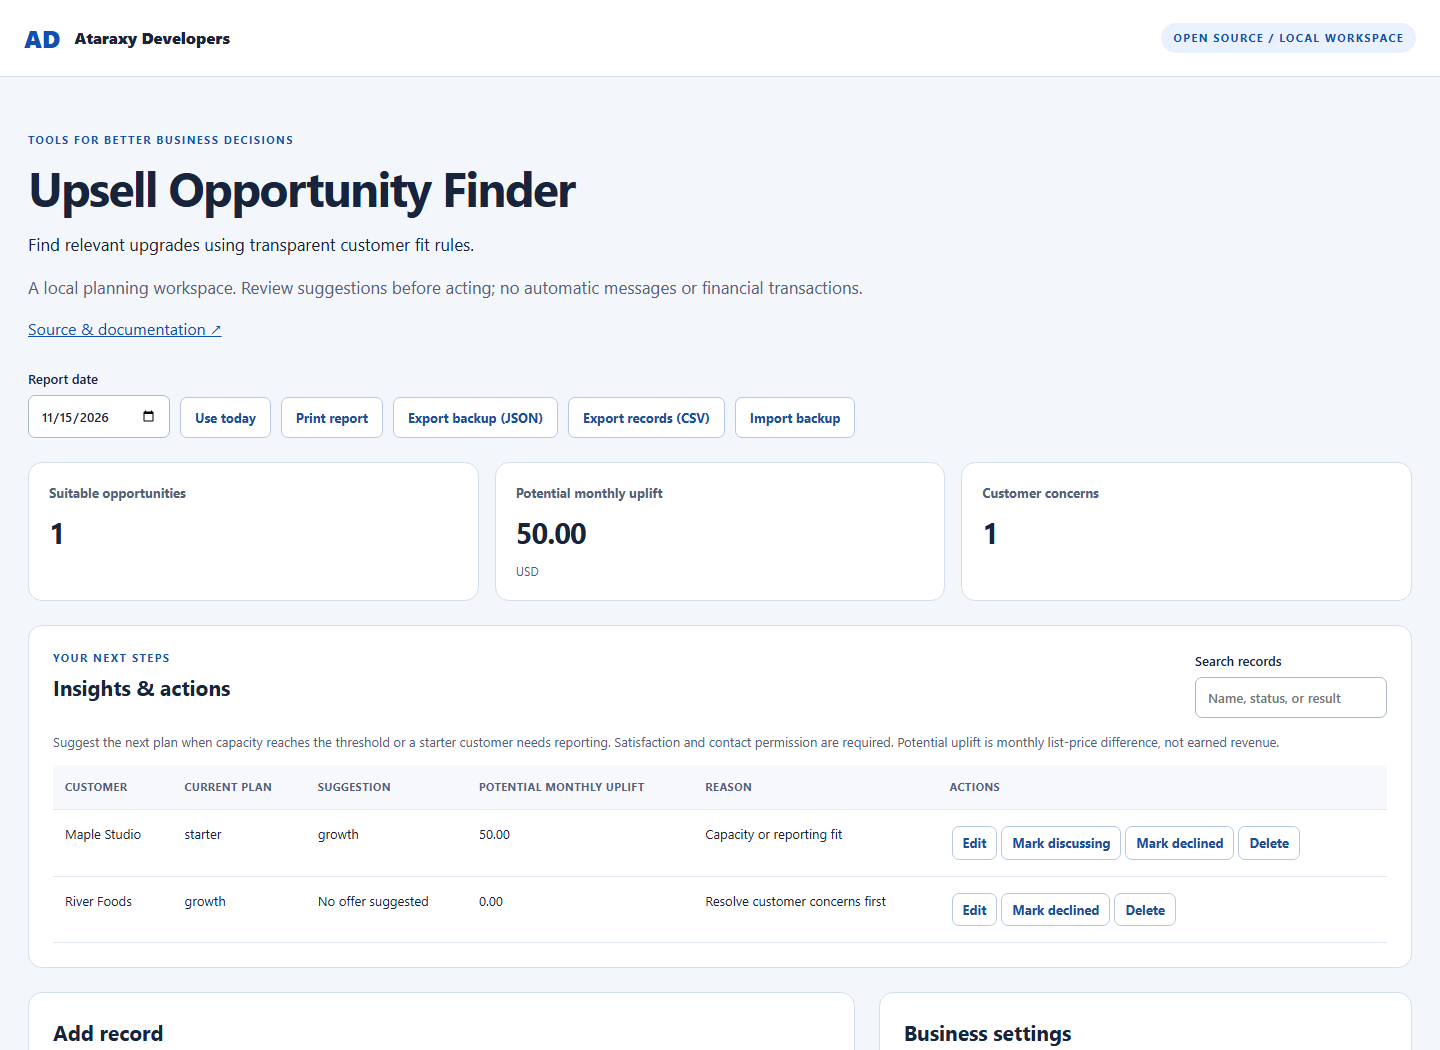
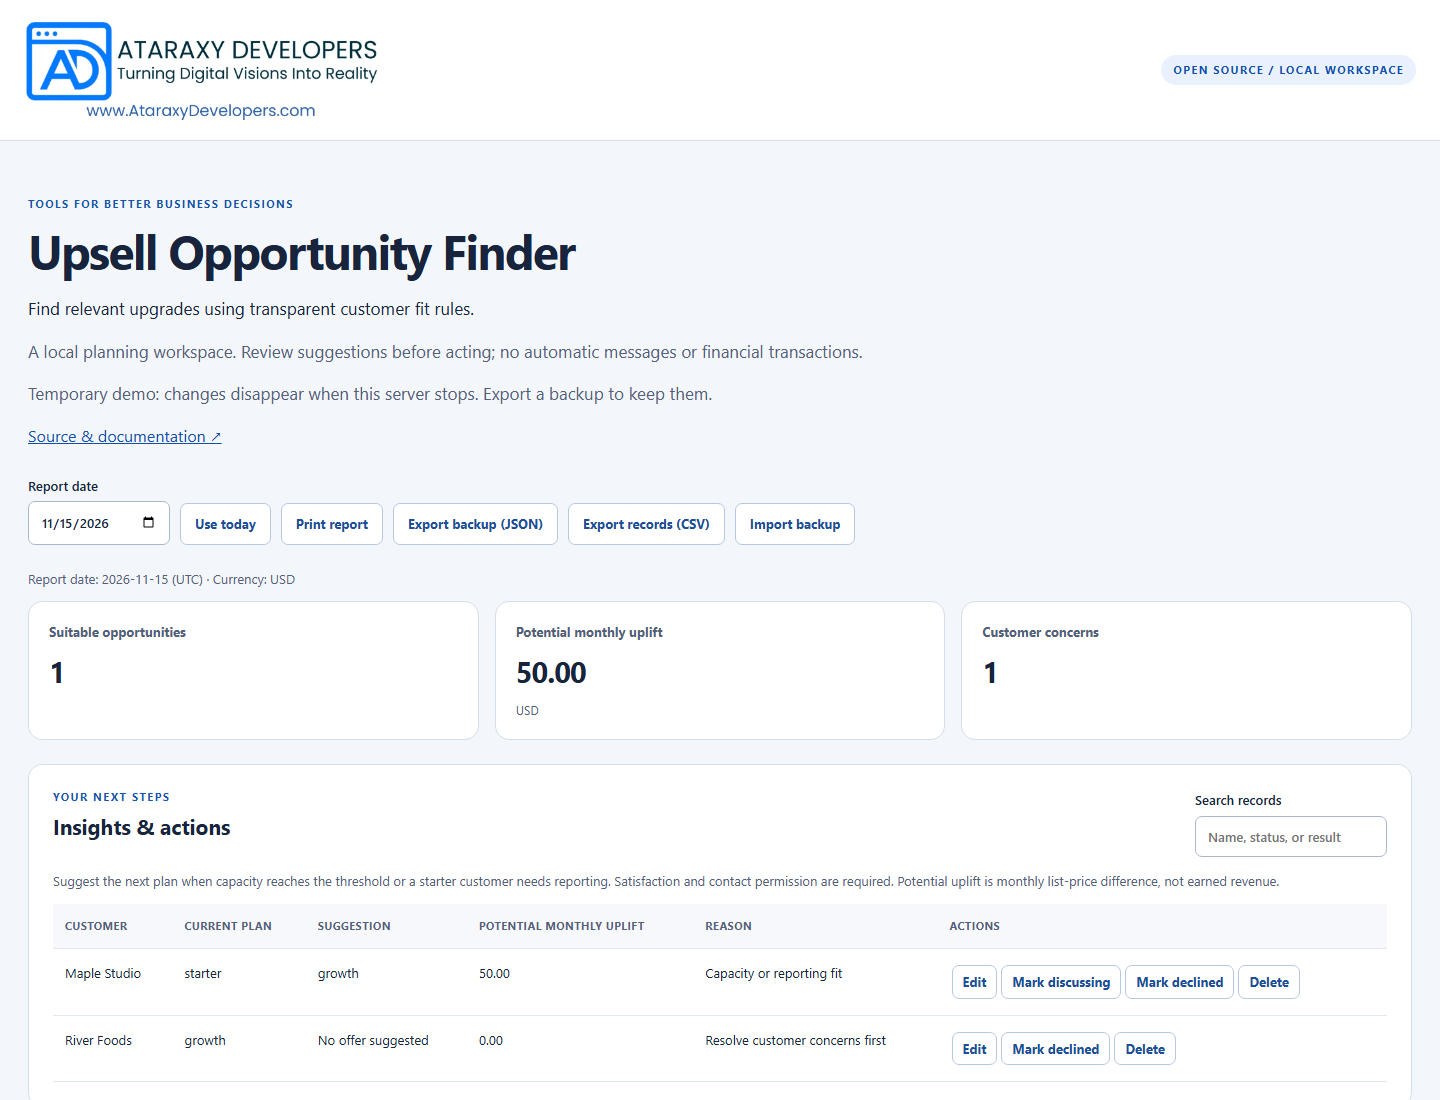
Use approved Ataraxy Developers branding

diff --git a/public/index.html b/public/index.html
@@ -4,16 +4,14 @@
     <meta charset="utf-8" />
     <meta name="viewport" content="width=device-width,initial-scale=1" />
     <title>Business workspace · Ataraxy Developers</title>
-    <link rel="icon" href="/favicon.svg" />
+    <link rel="icon" href="/ataraxy-developers-logo.png" type="image/png" />
     <link rel="stylesheet" href="/style.css" />
     <script type="module" src="/app.js"></script>
   </head>
   <body>
     <a class="skip" href="#main">Skip to workspace</a>
     <header>
-      <a class="brand" href="https://ataraxydevelopers.com"
-        >AD <span>Ataraxy Developers</span></a
-      ><span class="badge">OPEN SOURCE / LOCAL WORKSPACE</span>
+      <a class="brand" href="https://ataraxydevelopers.com"><img src="/ataraxy-developers-logo.png" alt="Ataraxy Developers — Turning Digital Visions Into Reality" width="1127" height="313" /></a><span class="badge">OPEN SOURCE / LOCAL WORKSPACE</span>
     </header>
     <main id="main">
       <section class="hero">

diff --git a/public/style.css b/public/style.css
@@ -40,10 +40,6 @@ header {
   font-weight: 800;
   text-decoration: none;
 }
-.brand span {
-  font-size: 16px;
-  color: #17243b;
-}
 .badge,
 .eyebrow {
   font-size: 11px;
@@ -364,3 +360,9 @@ footer {
     font-size: 27px;
   }
 }
+
+/* Use the complete, original company artwork without distortion. */
+header { flex-wrap: wrap; gap: 16px; background: #fff; }
+.brand { display: block; flex: 0 1 360px; min-width: 0; max-width: 100%; background: #fff; }
+.brand img { display: block; width: 360px; max-width: 100%; height: auto; }
+@media (max-width: 600px) { header { padding: 18px 20px; } .brand { flex-basis: 360px; } }

diff --git a/BRANDING.md b/BRANDING.md
@@ -1,0 +1,10 @@
+# Ataraxy Developers branding
+
+The company-approved logo is [public/ataraxy-developers-logo.png](public/ataraxy-developers-logo.png). It is the original PNG supplied by Ataraxy Developers on 2026-11-16, unchanged.
+
+- Preserve the complete artwork, its aspect ratio, and its white background.
+- Do not redraw it or substitute typed initials, an invented monogram, or generated artwork.
+- Use readable sizing and descriptive alternative text.
+- Capture screenshots from the working interface after this logo has loaded.
+
+SHA-256: 87ebc5a0092af0fff4524e805730ca3dc97c4483bd49f866528b8cdb97d422e7

diff --git a/README.md b/README.md
@@ -1,3 +1,5 @@
+<p><a href="https://ataraxydevelopers.com"><img src="public/ataraxy-developers-logo.png" alt="Ataraxy Developers — Turning Digital Visions Into Reality" width="520"></a></p>
+
 # Upsell Opportunity Finder
 
 [![CI](https://github.com/AtaraxyDevelopers/upsell-opportunity-finder/actions/workflows/ci.yml/badge.svg)](https://github.com/AtaraxyDevelopers/upsell-opportunity-finder/actions/workflows/ci.yml)

diff --git a/CHANGELOG.md b/CHANGELOG.md
@@ -1,5 +1,9 @@
 # Changelog
 
+## 0.1.2 — 2026-11-16
+
+Use the original, approved Ataraxy Developers logo and document its source. Update the interface and browser icon, serve the PNG correctly, and replace the README screenshot with a capture of the corrected app.
+
 ## 0.1.1
 
 - Correct optional date defaults when adding records.
